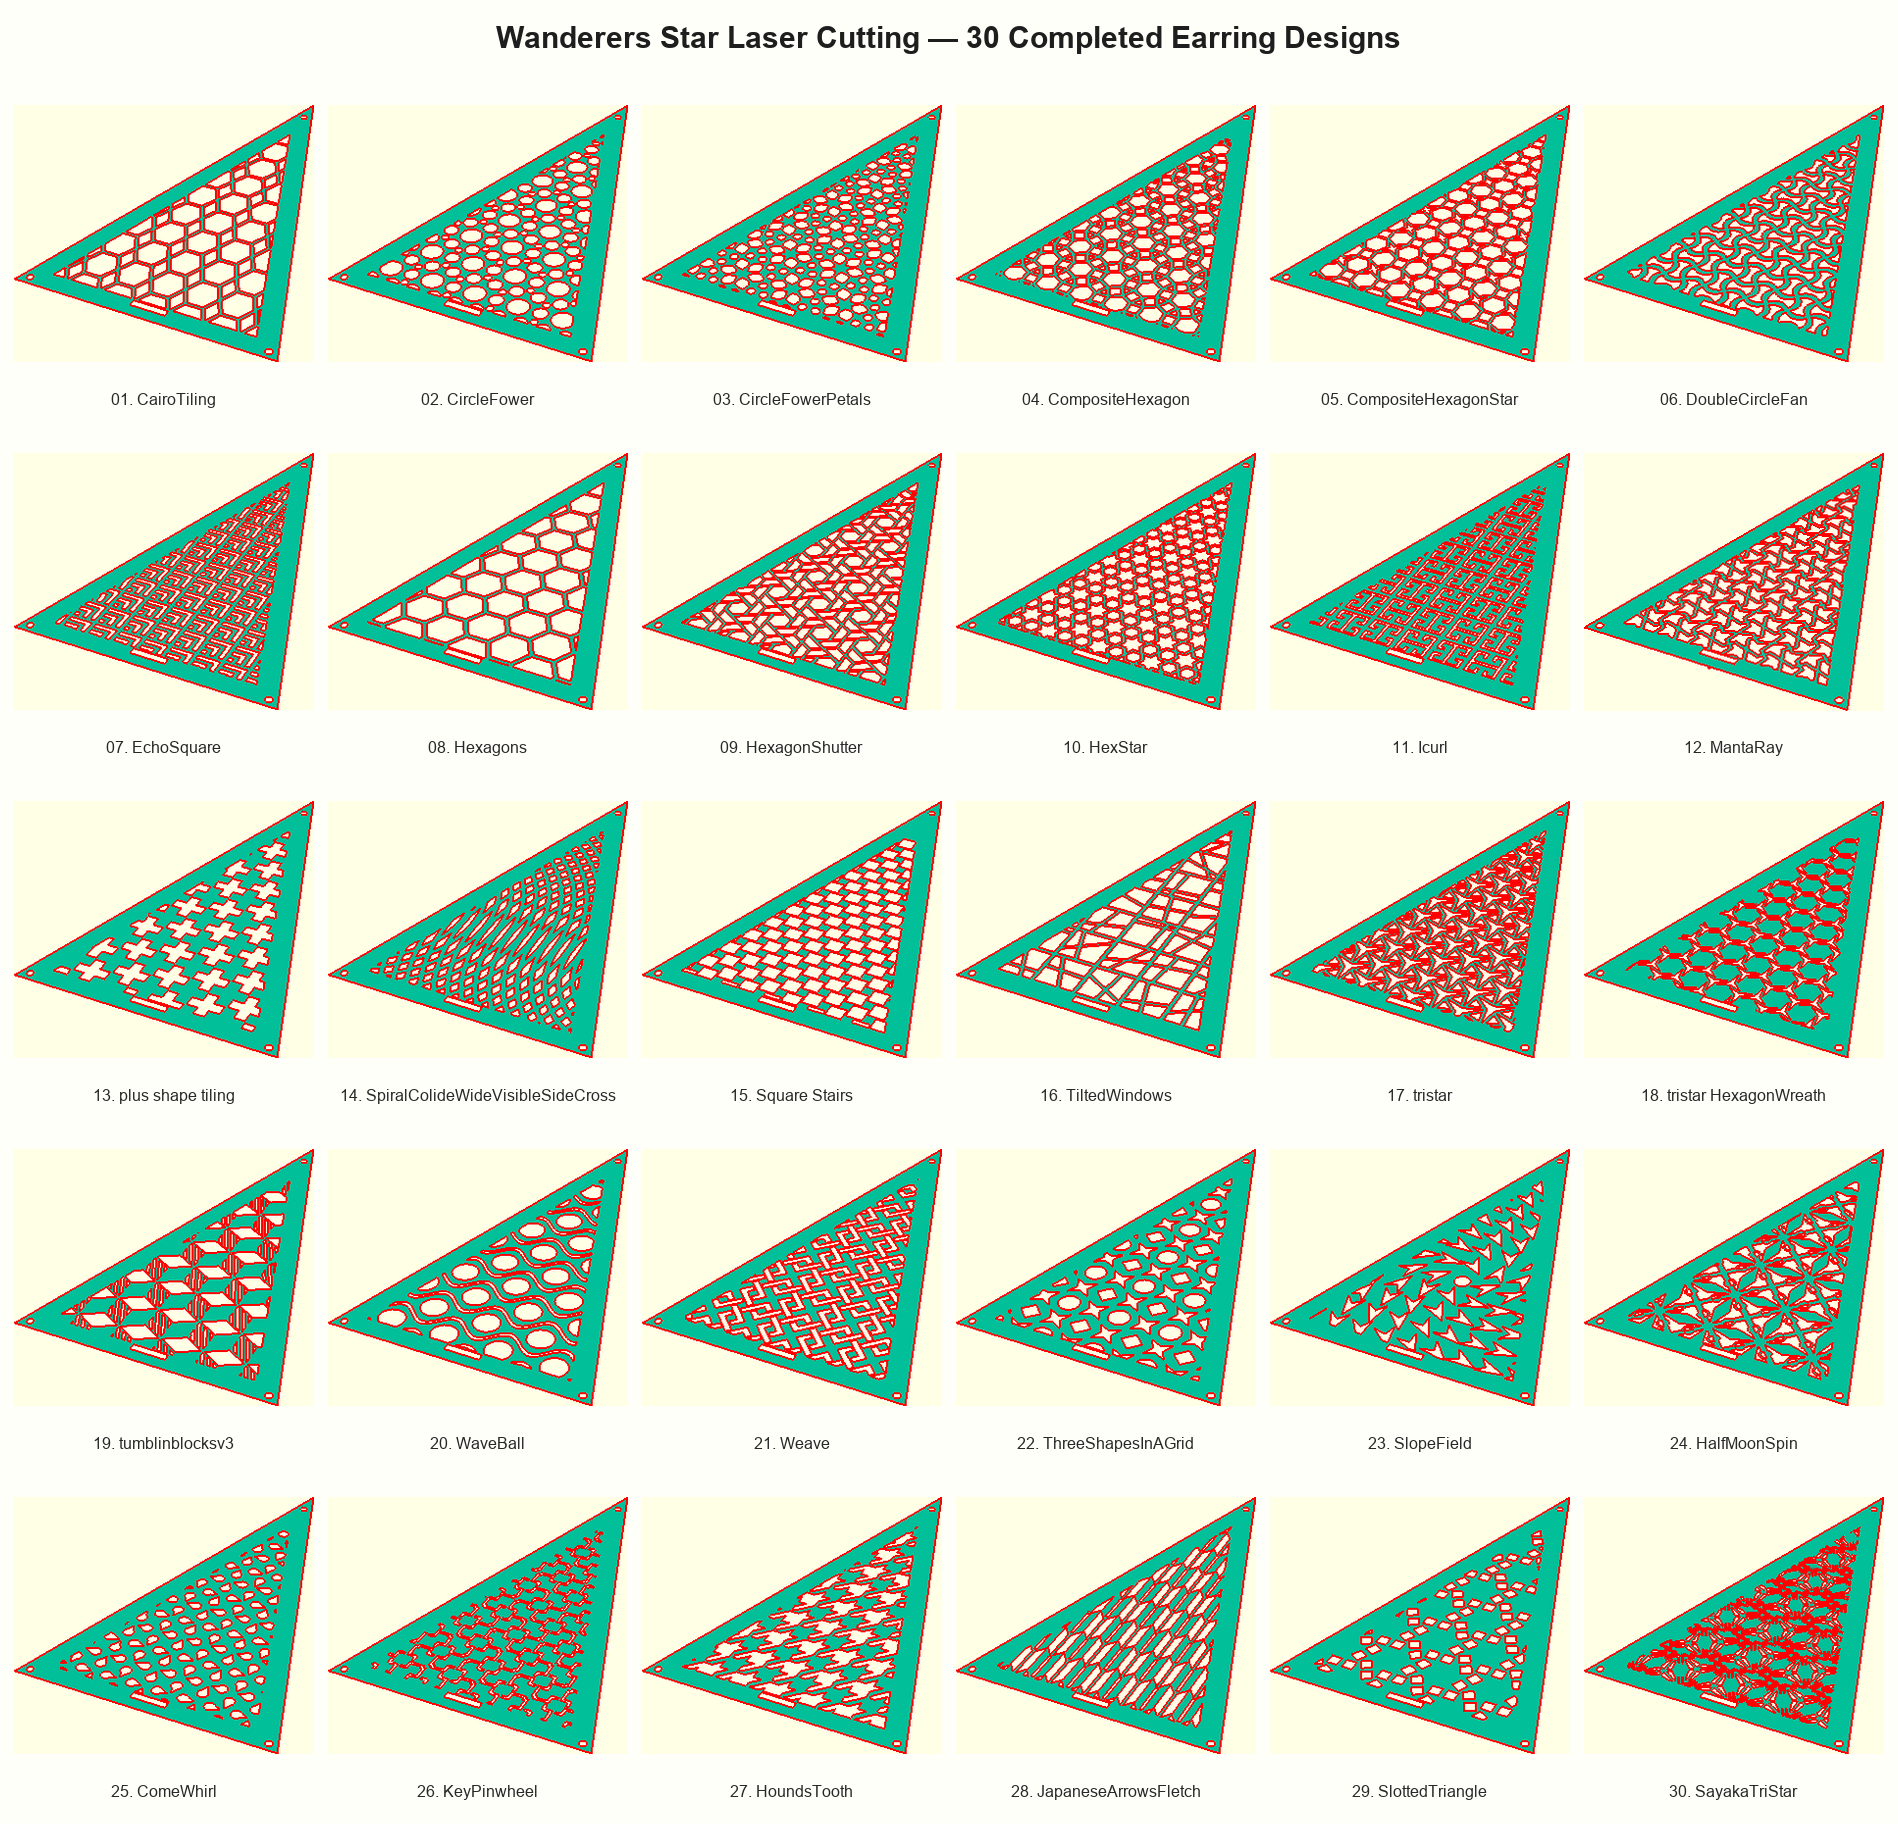
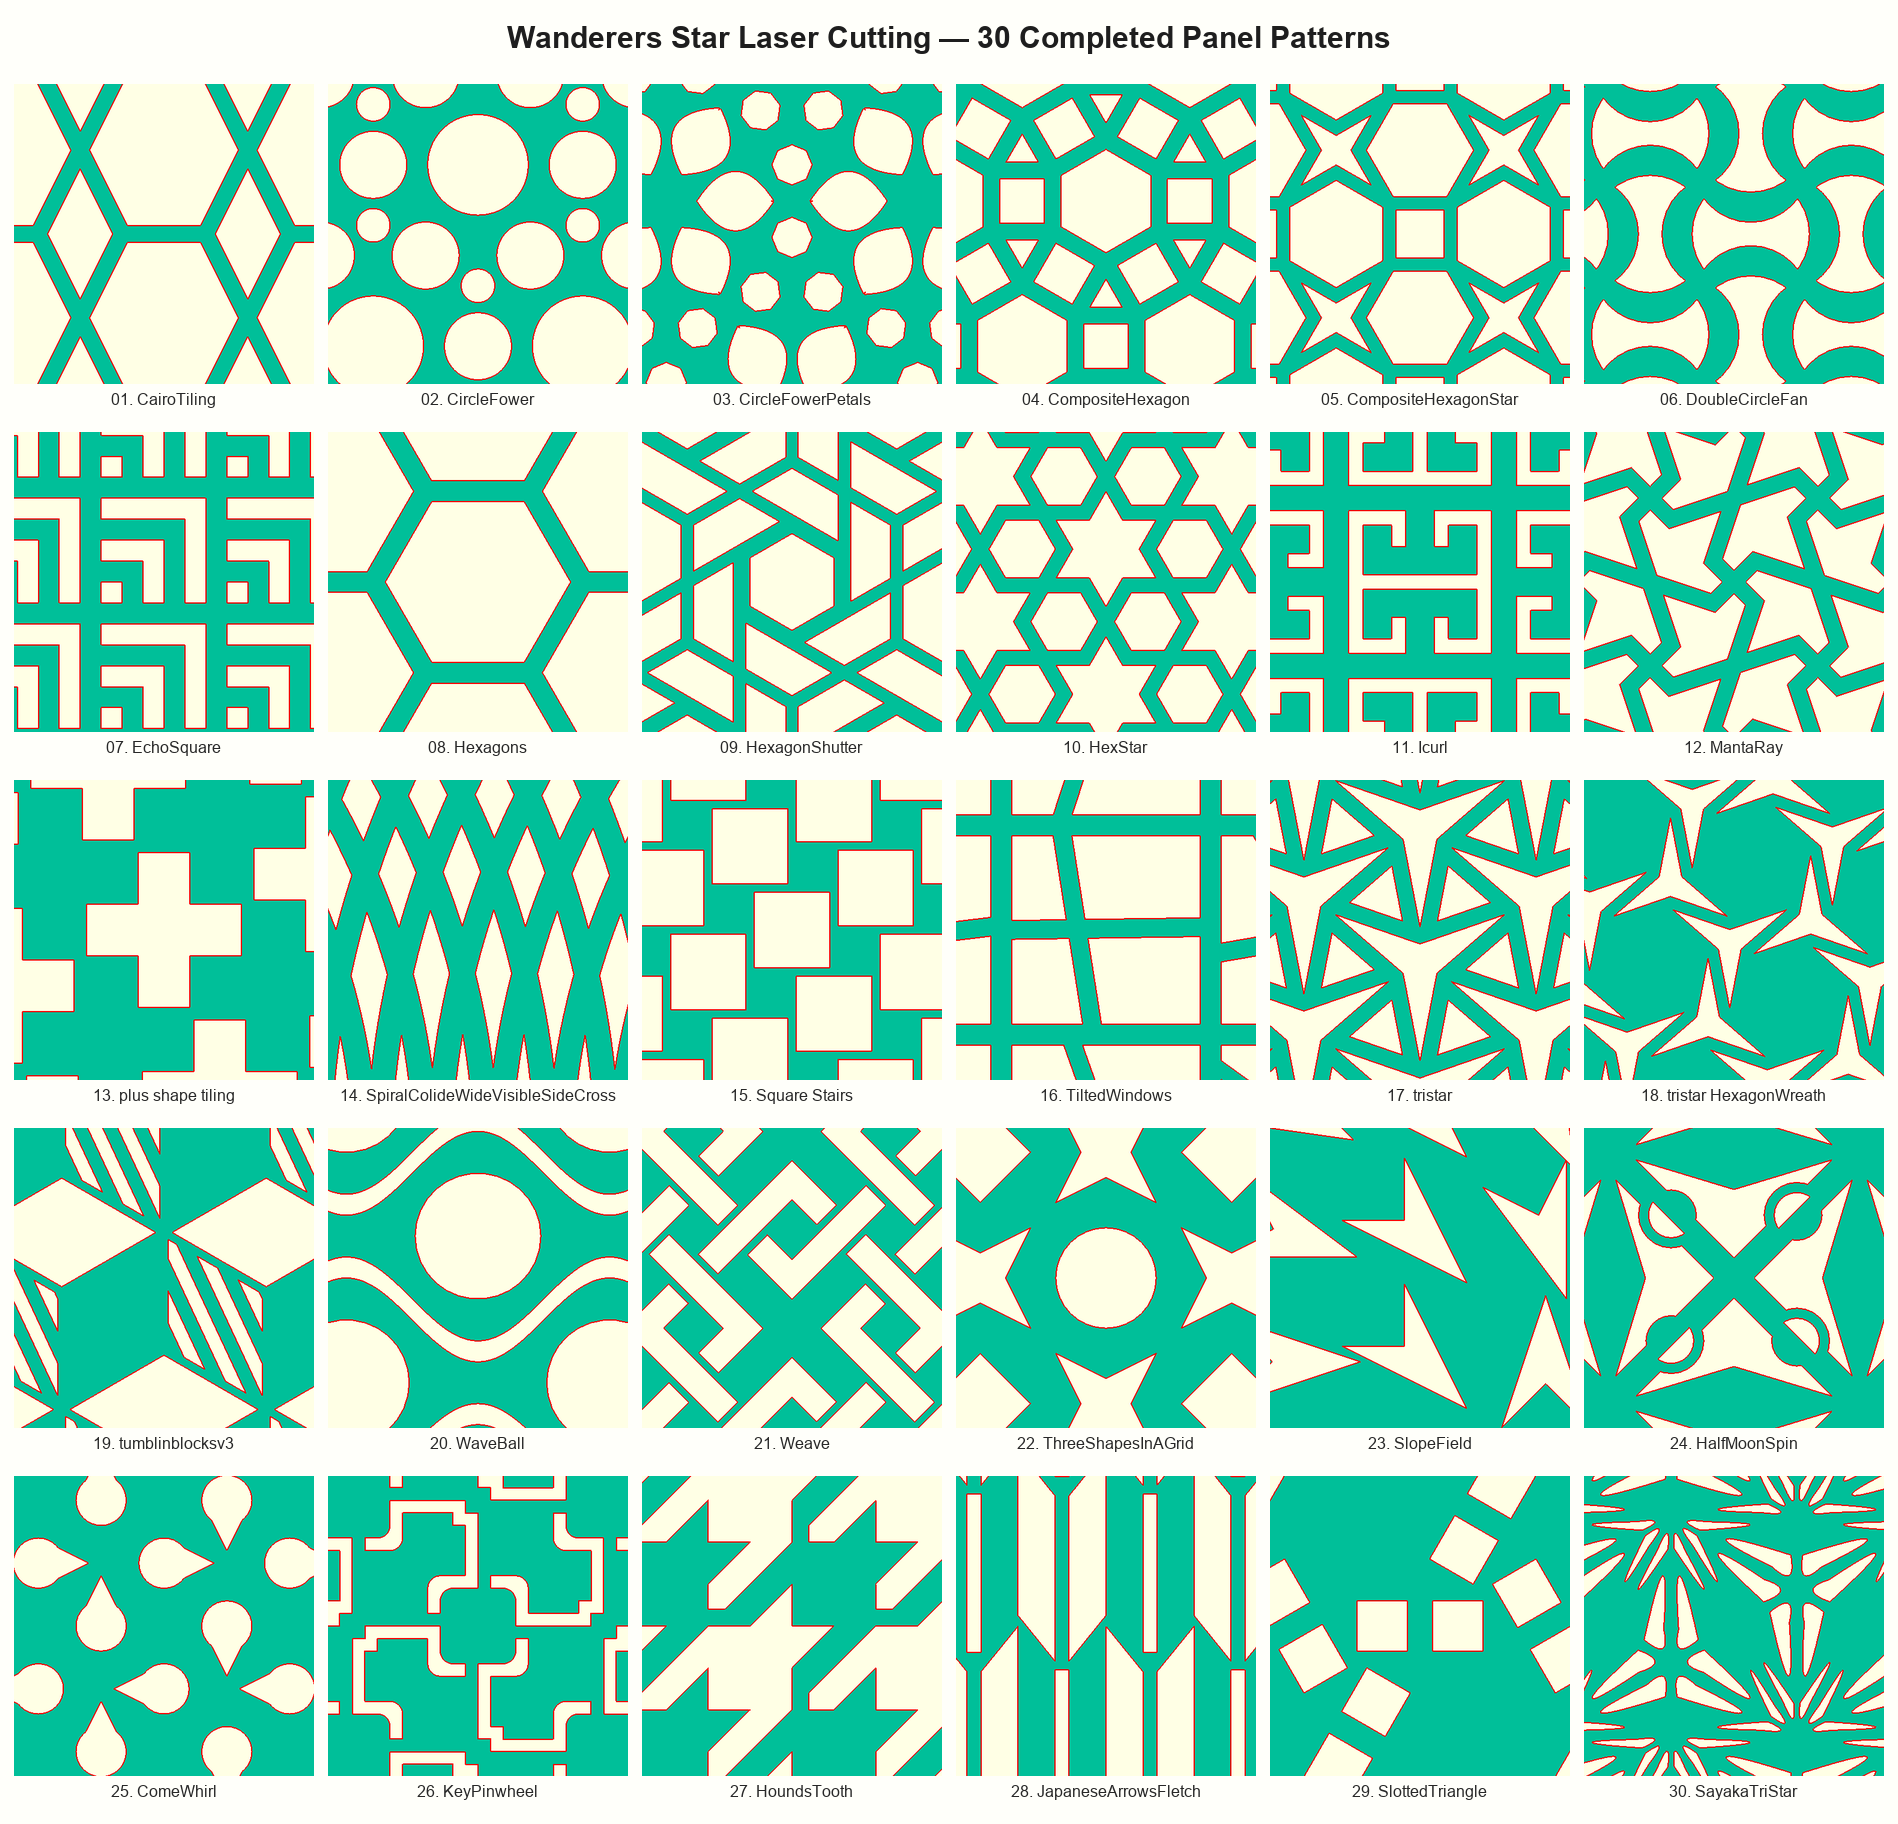
Show cropped pattern tiles instead of full triangle panels in overview
Re-render each thumbnail zoomed into the pattern's interior (fixed
top-down ortho camera centered at (0,100), dist=90) instead of the
whole golden-triangle silhouette, so the actual repeating motif is
visible rather than mostly triangle outline/background. Also correct
terminology throughout: these are panels, not earrings.

Claude-Session: https://claude.ai/code/session_01EUQFMDSHPvoxDdUmBbhn5m

diff --git a/README.md b/README.md
@@ -1,11 +1,11 @@
 # Wanderers Star Laser Cutting
 
-OpenSCAD source files for laser-cut earring designs, organized into three folders:
+OpenSCAD source files for laser-cut golden-triangle panels, organized into three folders:
 
-- **`Complete/`** — finished designs (`Complete_NN_Name.scad`), each framed in the golden-triangle earring border and ready to cut.
+- **`Complete/`** — finished panels (`Complete_NN_Name.scad`), each framed in the golden-triangle border and ready to cut.
 - **`Incomplete/`** — work-in-progress drafts (`Incomplete_Name.scad`).
 - **`Templates/`** — one blank reference template per wallpaper symmetry group (`p1`, `p2`, `pm`, `pg`, `cm`, `pmm`, `pmg`, `pgg`, `cmm`, `p3`, `p3m1`, `p31m`, `p4`, `p4m`, `p4g`, `p6`, `p6m`), plus `GoldenTriangle_Blank_Template.scad` for the frame itself.
 
-## Completed designs
+## Completed patterns
 
-![Overview of all completed earring designs](overview.png)
+![Overview of all completed panel patterns](overview.png)
